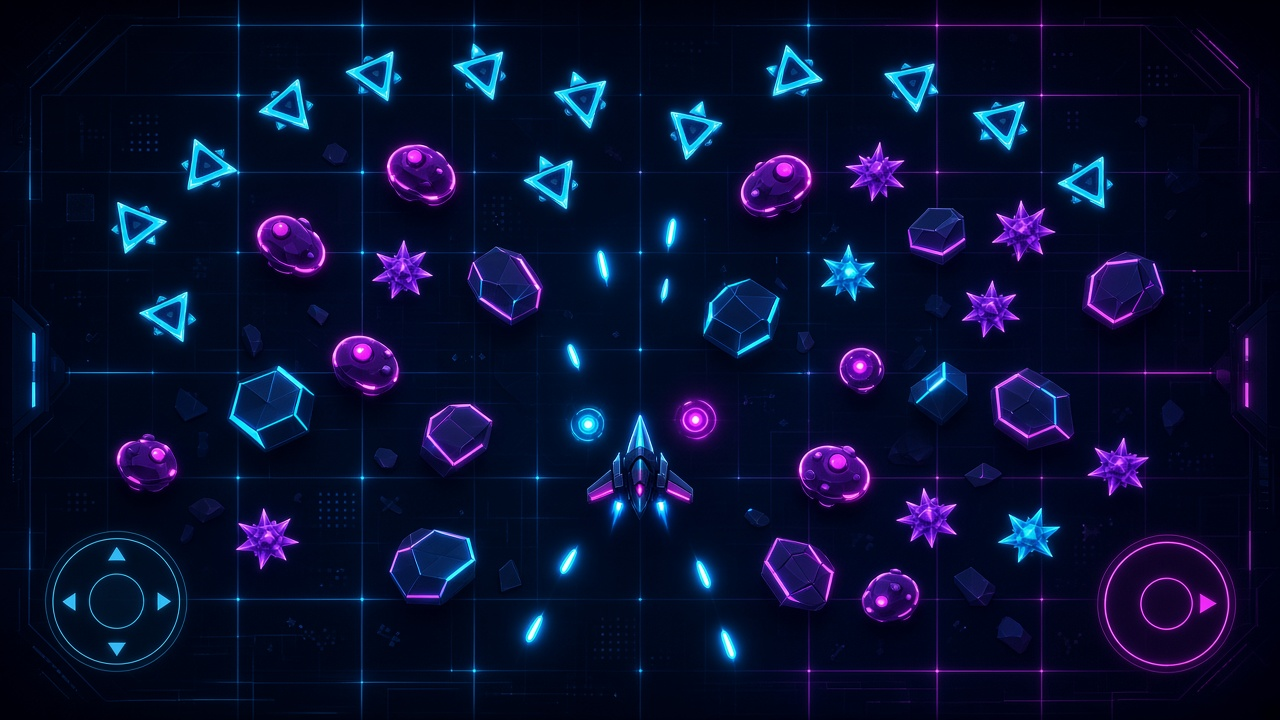
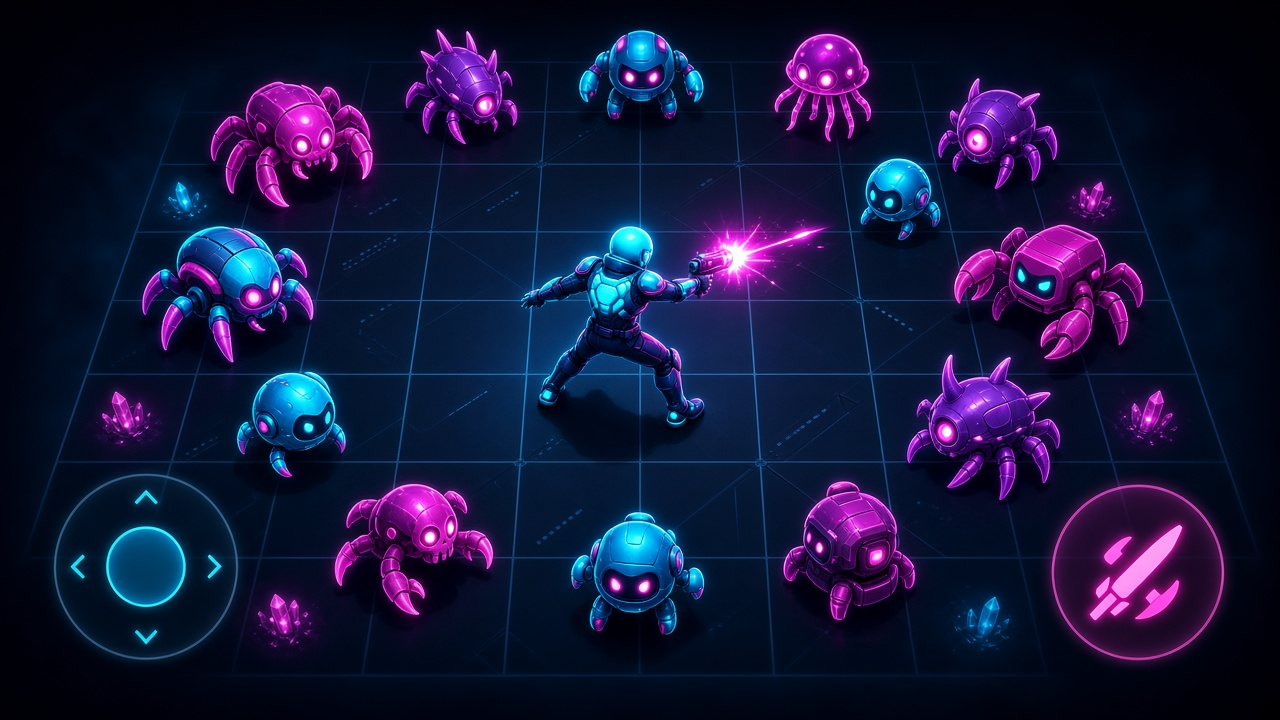
Phone combat opt6: A neon human player + Image src cache-bust
Replace ship player with visor/limbs/dual-guns character; refresh A
style board. All art/ Image srcs use ?v=opt6 so Android Chrome drops
stale cels. drawImage-only unchanged.

diff --git a/game-options/phone-roam-combat/styles.html b/game-options/phone-roam-combat/styles.html
@@ -24,28 +24,28 @@ a.btn{display:inline-flex;align-items:center;justify-content:center;min-height:4
 <section class="card">
   <h2>A — Neon cyber · twin-stick</h2>
   <div class="row">
-    <img src="a/art/style_world.png" alt="A style world neon cyber top-down"/>
-    <img src="a/art/hero_silhouette.png" alt="A hero silhouette"/>
+    <img src="a/art/style_world.png?v=opt6" alt="A style world neon cyber top-down"/>
+    <img src="a/art/hero_silhouette.png?v=opt6" alt="A hero silhouette"/>
   </div>
-  <a class="btn" href="a/?v=opt5">Play A</a>
+  <a class="btn" href="a/?v=opt6">Play A</a>
 </section>
 
 <section class="card">
   <h2>B — Whimsy stubby · side slash</h2>
   <div class="row">
-    <img src="b/art/style_world.png" alt="B style world whimsy side view"/>
-    <img src="b/art/hero_silhouette.png" alt="B hero silhouette"/>
+    <img src="b/art/style_world.png?v=opt6" alt="B style world whimsy side view"/>
+    <img src="b/art/hero_silhouette.png?v=opt6" alt="B hero silhouette"/>
   </div>
-  <a class="btn" href="b/?v=opt5">Play B</a>
+  <a class="btn" href="b/?v=opt6">Play B</a>
 </section>
 
 <section class="card">
   <h2>C — Painterly iso noir · stealth</h2>
   <div class="row">
-    <img src="c/art/style_world.png" alt="C style world painterly iso noir"/>
-    <img src="c/art/hero_silhouette.png" alt="C hero silhouette"/>
+    <img src="c/art/style_world.png?v=opt6" alt="C style world painterly iso noir"/>
+    <img src="c/art/hero_silhouette.png?v=opt6" alt="C hero silhouette"/>
   </div>
-  <a class="btn" href="c/?v=opt5">Play C</a>
+  <a class="btn" href="c/?v=opt6">Play C</a>
 </section>
 </main>
 </body>

diff --git a/game-options/phone-roam-combat/a/game.js b/game-options/phone-roam-combat/a/game.js
@@ -11,11 +11,11 @@
     im.src = src;
     return im;
   }
-  const heroImg = loadImg('./art/player.png');
-  const heroImg2 = loadImg('./art/player_f2.png');
-  const enemyTri = loadImg('./art/enemy_tri.png');
-  const enemyPod = loadImg('./art/enemy_pod.png');
-  const enemyRock = loadImg('./art/enemy_rock.png');
+  const heroImg = loadImg('./art/player.png?v=opt6');
+  const heroImg2 = loadImg('./art/player_f2.png?v=opt6');
+  const enemyTri = loadImg('./art/enemy_tri.png?v=opt6');
+  const enemyPod = loadImg('./art/enemy_pod.png?v=opt6');
+  const enemyRock = loadImg('./art/enemy_rock.png?v=opt6');
 
 
   const canvas = document.getElementById("c");

diff --git a/game-options/phone-roam-combat/b/game.js b/game-options/phone-roam-combat/b/game.js
@@ -7,10 +7,10 @@
     im.src = src;
     return im;
   }
-  var heroImg = loadImg('./art/player.png');
-  var heroImg2 = loadImg('./art/player_f2.png');
-  var blobImg = loadImg('./art/enemy_blob.png');
-  var blobAlt = loadImg('./art/enemy_blob_alt.png');
+  var heroImg = loadImg('./art/player.png?v=opt6');
+  var heroImg2 = loadImg('./art/player_f2.png?v=opt6');
+  var blobImg = loadImg('./art/enemy_blob.png?v=opt6');
+  var blobAlt = loadImg('./art/enemy_blob_alt.png?v=opt6');
 
 (function () {
   "use strict";

diff --git a/game-options/phone-roam-combat/c/game.js b/game-options/phone-roam-combat/c/game.js
@@ -7,9 +7,9 @@
     im.src = src;
     return im;
   }
-  var heroImg = loadImg('./art/player.png');
-  var heroImg2 = loadImg('./art/player_f2.png');
-  var guardImg = loadImg('./art/guard.png');
+  var heroImg = loadImg('./art/player.png?v=opt6');
+  var heroImg2 = loadImg('./art/player_f2.png?v=opt6');
+  var guardImg = loadImg('./art/guard.png?v=opt6');
 
 (function () {
   "use strict";

diff --git a/game-options/phone-roam-combat/a/index.html b/game-options/phone-roam-combat/a/index.html
@@ -72,6 +72,6 @@ canvas{background:#050510}
     </div>
   </div>
 </div>
-<script src="game.js?v=opt5"></script>
+<script src="game.js?v=opt6"></script>
 </body>
 </html>

diff --git a/game-options/phone-roam-combat/b/index.html b/game-options/phone-roam-combat/b/index.html
@@ -70,6 +70,6 @@ canvas{background:#e9d5ff}
     </div>
   </div>
 </div>
-<script src="game.js?v=opt5"></script>
+<script src="game.js?v=opt6"></script>
 </body>
 </html>

diff --git a/game-options/phone-roam-combat/c/index.html b/game-options/phone-roam-combat/c/index.html
@@ -67,6 +67,6 @@ canvas{background:#0b1020}
     </div>
   </div>
 </div>
-<script src="game.js?v=opt5"></script>
+<script src="game.js?v=opt6"></script>
 </body>
 </html>

diff --git a/game-options/phone-roam-combat/a/art/README.md b/game-options/phone-roam-combat/a/art/README.md
@@ -1,5 +1,6 @@
-# A — Arena Clear · Neon cyber top-down
-- `style_world.png` — twin-stick arena mood (neon grid, readable enemy blobs, stick UI)
-- `hero_silhouette.png` — true top-down neon fighter blob (primary)
-- `hero_highangle_alt.png` — high-angle chrome fighter (secondary read)
-Style lock if picked: neon vector / low-poly cyber — NOT whimsy, NOT iso painterly.
+# A — Neon cyber CHARACTER twin-stick
+- `style_world.png` — human neon fighter arena (not ships)
+- `player.png` / `player_f2.png` / `player_sheet.png` — neon HUMAN with limbs+visor+dual guns
+- `enemy_tri/pod/rock.png` — creature characters (robot / spider / golem)
+- Archives: `*_ship_archive.png` — ignore
+FAIL bar: no triangle/circle/hex/ship silhouettes at phone size.
